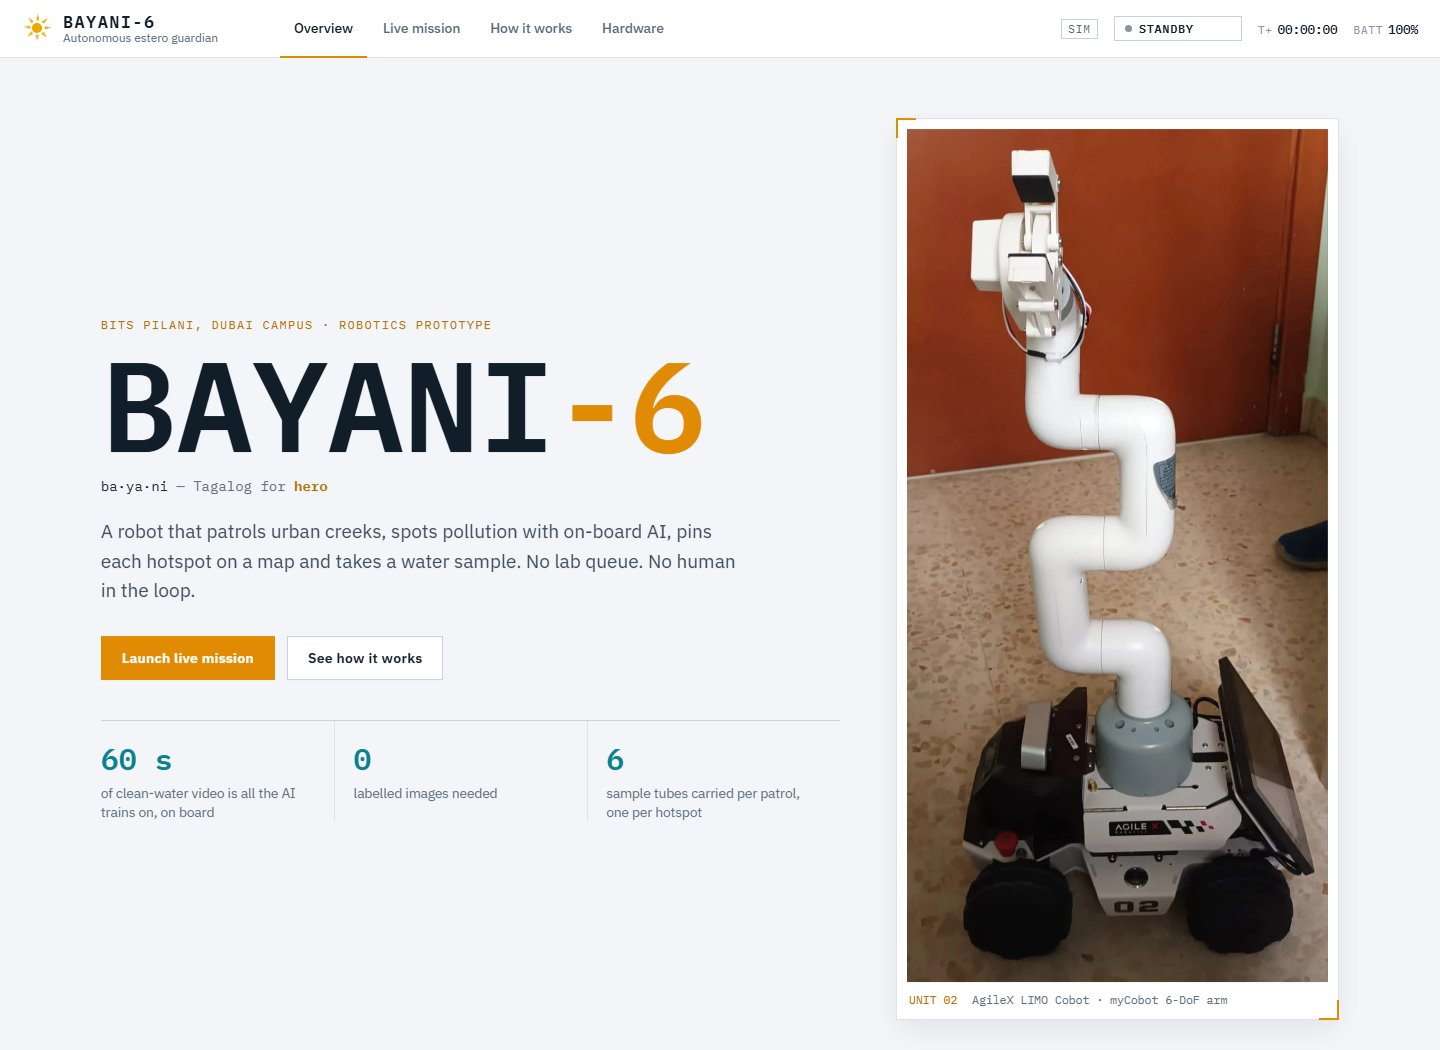
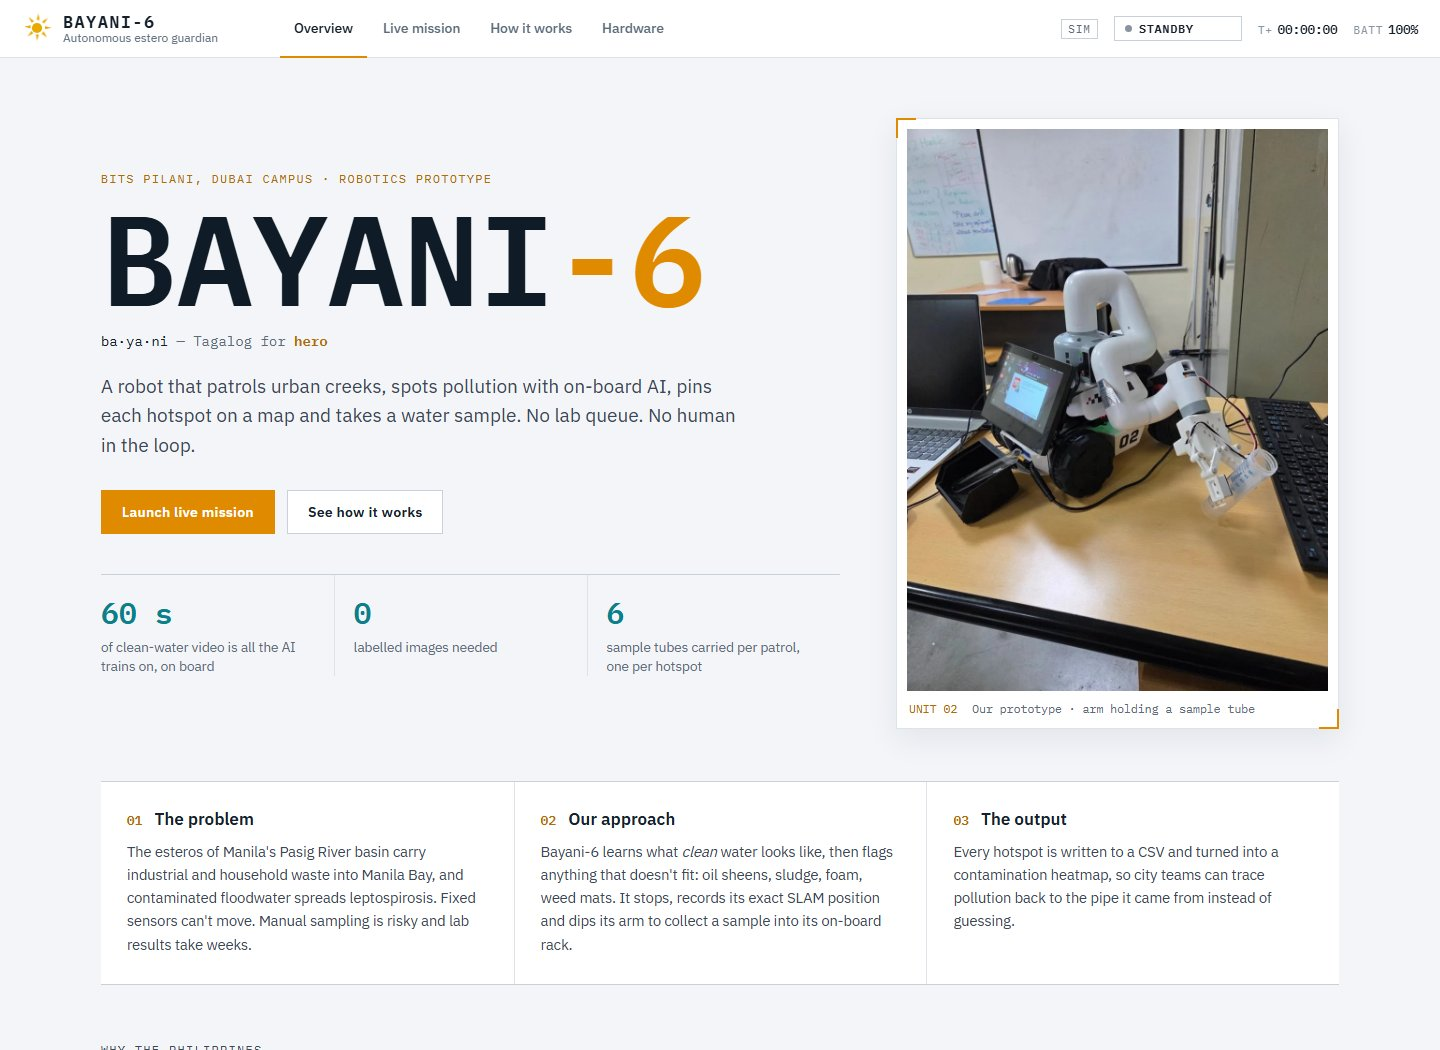
Add real prototype photos to posters and dashboard
- Posters: two prototype photos (tube in holder, arm holding a sample tube)
  replace the old robot photo and the AgileX render
- Academic poster: "Gripper + sample tube holder: built on robot" in What We Built
- Dashboard: Overview and Hardware use the prototype photos
- Original photos saved in poster/

diff --git a/index.html b/index.html
@@ -62,8 +62,8 @@
           </dl>
         </div>
         <figure class="hero-photo">
-          <img src="assets/bayani6_robot.jpg" alt="Bayani-6: AgileX LIMO Cobot with myCobot arm">
-          <figcaption><span>UNIT 02</span> AgileX LIMO Cobot · myCobot 6-DoF arm</figcaption>
+          <img src="assets/prototype_sampling.jpg" alt="Bayani-6 prototype: myCobot arm holding a sample tube">
+          <figcaption><span>UNIT 02</span> Our prototype · arm holding a sample tube</figcaption>
         </figure>
       </div>
 
@@ -379,7 +379,7 @@
     <section class="view" id="view-hardware">
       <div class="hw">
         <figure class="hw-photo panel">
-          <img src="assets/bayani6_robot.jpg" alt="Bayani-6 robot">
+          <img src="assets/prototype_rack.jpg" alt="Bayani-6 prototype with sample tube holder">
         </figure>
         <div class="hw-specs">
           <p class="eyebrow">Unmodified off-the-shelf platform</p>
